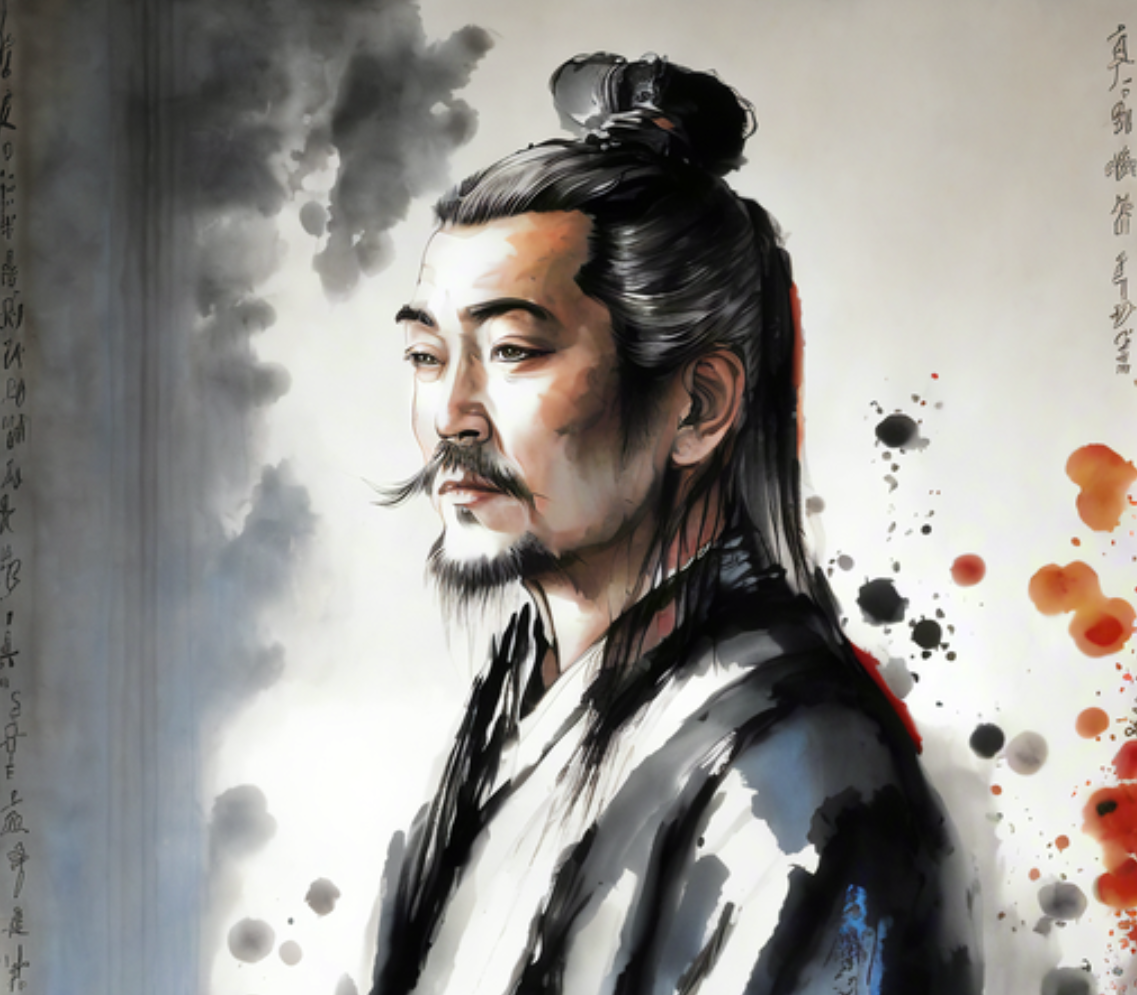
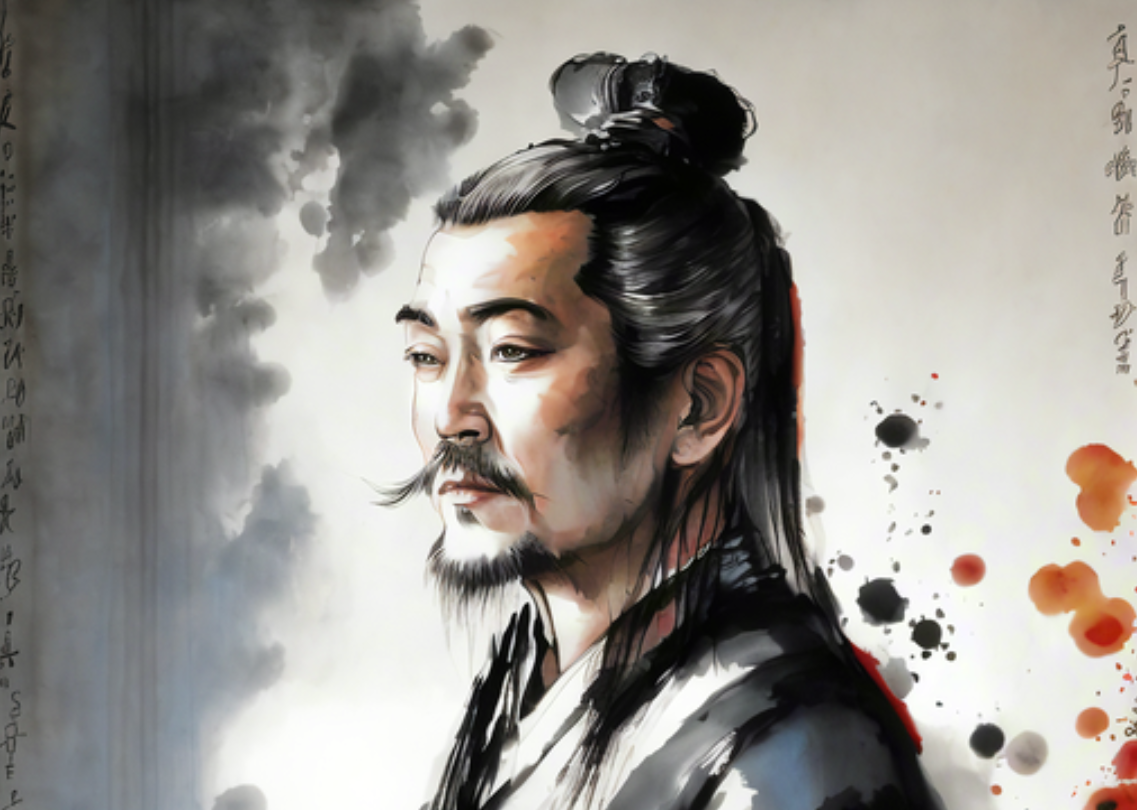
按照老师的意见修改了
1.首页加了背景图，背景图本来找ai扩图把左边扩一下好放网站名的，后来想起来设计模板网站就找了模板做，模板要VIP所以截图了有点糊，好在图片里的奶奶笑得很开心不影响美感（感谢奶奶让我找到这么合适的图嘎嘎嘎嘎嘎）。
2.精品课程多加了一行，仅仅是“紧凑一点”四个字就让我调了好久，可算是把什么margin， padding，上下左右都搞明白了。
3.睡觉！！！

diff --git a/index.html b/index.html
@@ -28,7 +28,7 @@
     <div id="nav">
          <div class="container-fluid">
             <div id="logo" class="pull-left">
-                <a href="#"><img src="logo (2).png" alt="Logo"></a>
+                <a href="#"><img src="logo2.png" alt="Logo"></a>
             </div>
 
             <nav id="nav-menu-container">
@@ -38,6 +38,9 @@
                     <li><a href="#process">社团介绍</a></li>  
                     <li><a href="#products">课程介绍</a></li>   
                     <li><a href="#faqs">常见问题</a></li>
+                    <li><a href="#settled in">社团入驻</a></li>
+                    <li><a href="#reservation">课程预约</a></li>
+
                 </ul>
             </nav>
          </div>
@@ -50,19 +53,18 @@
 
     <!-- Header Start-->
    <div id="header">
-       <div class="container">
-           <div class="">
-               <div class="">
+       <div class="container bg-image">
+           <div class="row align-items-center">
+               <div class="col-md-7">
                    <div class="header-content">
                        <h2>学 社 通</h2>
-                       <p></p>
-                       <h4>————连接<span> 学校</span> 与 <span>社区</span></h4>
-                       <p></p>
-                       <h3><i class="far fa-arrow-alt-circle-right"></i>学校社团提供课程
-                       <i class="far fa-arrow-alt-circle-right"></i>专为社区教育服务
-                       <i class="far fa-arrow-alt-circle-right"></i>线上线下课程联动</h3>
-                       <p></p>
-                   
+                       <h3>————连接<span> 学校 </span>与<span> 社区 </span></h3>
+                       <ul class="fa-ul">
+                           <li><span class="fa-li"><i class="far fa-arrow-alt-circle-right"></i></span>学校社团提供课程</li>
+                           <li><span class="fa-li"><i class="far fa-arrow-alt-circle-right"></i></span>专为社区教育服务</li>
+                           <li><span class="fa-li"><i class="far fa-arrow-alt-circle-right"></i></span>线上线下课程联动</li>
+
+                       </ul>
                        <a href="#" class="btn">立即预约</a>
                    </div>
                </div>
@@ -202,7 +204,6 @@
         <div class="container">
             <div class="section-header">
                 <h2>精品课程</h2>
-                <p></p>
             </div>
 
             <div class="row align-items-center">
@@ -212,7 +213,6 @@
                             <img src="c1.png" alt="">
                         </div>
                         <div class="product-content">
-                            <h2></h2>
                             <h3>历史百家鸣</h3>
                             <a href="" class="btn">立即预约</a>
                         </div>
@@ -224,7 +224,6 @@
                             <img src="c2.png" alt="">
                         </div>
                         <div class="product-content">
-                            <h2></h2>
                             <h3>跟我学Java</h3>
                             <a href="" class="btn">立即预约</a>
                         </div>
@@ -236,7 +235,6 @@
                             <img src="c3.png" alt="">
                         </div>
                         <div class="product-content">
-                            <h2></h2>
                             <h3>童心探索营</h3>
                             <a href="" class="btn">立即预约</a>
                         </div>
@@ -248,12 +246,60 @@
                             <img src="c4.png" alt="">
                         </div>
                         <div class="product-content">
-                            <h2></h2>
                             <h3>智慧养生堂</h3>
                             <a href="" class="btn">立即预约</a>
                         </div>
                     </div>
                 </div>
+
+                <div class="col-md-3">
+                    <div class="product-single">
+                        <div class="product-img">
+                            <img src="c51.jpg" alt="">
+                        </div>
+                        <div class="product-content">
+                            <h3>晚霞画韵</h3>
+                            <a href="" class="btn">立即预约</a>
+                        </div>
+                    </div>
+                </div>
+
+                <div class="col-md-3">
+                    <div class="product-single">
+                        <div class="product-img">
+                            <img src="c6.jpg" alt="">
+                        </div>
+                        <div class="product-content">
+                            <h3>玩转科学</h3>
+                            <a href="" class="btn">立即预约</a>
+                        </div>
+                    </div>
+                </div>
+
+                <div class="col-md-3">
+                    <div class="product-single">
+                        <div class="product-img">
+                            <img src="c7.jpg" alt="">
+                        </div>
+                        <div class="product-content">
+                            <h3>话语力量</h3>
+                            <a href="" class="btn">立即预约</a>
+                        </div>
+                    </div>
+                </div>
+
+                <div class="col-md-3">
+                    <div class="product-single">
+                        <div class="product-img">
+                            <img src="c8.jpg" alt="">
+                        </div>
+                        <div class="product-content">
+                            <h3>乐享烘焙</h3>
+                            <a href="" class="btn">立即预约</a>
+                        </div>
+                    </div>
+                </div>
+
             </div>
         </div>
     </div>
@@ -350,7 +396,7 @@
                     <p>&copy; Copyright <a href="#">xueshetong</a>. All Rights Reserved.</p>    
                 </div>
                 <div class="col-md-6">
-                    <p>Template by <a href="#">CC</a></p>
+                    <p><a href="#"></a></p>
                 </diV>
             </div>
         </div>

diff --git a/style.css b/style.css
@@ -41,7 +41,7 @@
 #nav #logo img{
     padding:0;
     margin:0;
-    max-height:70px;
+    max-height:90px;
 }
 
 #nav-menu-container{
@@ -199,14 +199,19 @@ body.mobile-nav-active #mobile-nav-toggle {
 #header
 {
     position: relative;
-    padding:90px 0;
-    margin-top: 90px;
+    padding:9px 0;
+    margin-top: 120px;
     background-position: center;
     background-repeat: no-repeat;
     background-size: cover;
     background-attachment: fixed;
     background-color:#f7f7f7;
 }
+
+#header .bg-image{
+    background-image: url("bgs.png");
+}
+
 #header .header-content{
     width:100%;
     text-align:center;
@@ -216,25 +221,28 @@ body.mobile-nav-active #mobile-nav-toggle {
     font-weight:700;
     color:#73c8e4;
     margin-bottom: 20px;
+    text-align: left;
 }
 
 
-#header .header-content h4{
+#header .header-content h3{
     font-size:25px;
     font-weight:700;
     color:#666666;
     margin-bottom: 20px;
-    text-align: right;
+    text-align: center;
 }
-#header .header-content h4 span{
+#header .header-content h3 span{
     color:#73c8e4;
 }
 #header .header-content ul{
     margin-left: 32px;
-    margin-bottom: 30px;
+    margin-bottom: 0px;
 }
 #header .header-content ul li{
-    font-size: 22px;   
+    font-size: 22px; 
+    text-align: left; 
+    letter-spacing: 2px; 
 }
 #header .header-content ul li i{
     color:#73c8e4;
@@ -248,8 +256,9 @@ body.mobile-nav-active #mobile-nav-toggle {
     margin:30px;
     padding:7px 20px;
     font-size:22px;
-    color: #73c8e4;
+    color: #fff;
     border:2px solid #73c8e4;
+    background:#73c8e4;
 }
 #header .header-content .btn:hover{
     background:#73c8e4;
@@ -407,10 +416,11 @@ body.mobile-nav-active #mobile-nav-toggle {
     position:relative;
     padding:90px 0;
 }
+
 #products .product-single{
     position:relative;
     width:100%;
-    padding:30px;
+    padding:10px;
     text-align:center;
     background: #f7f7f7;
     border-radius: 5px;
@@ -418,8 +428,9 @@ body.mobile-nav-active #mobile-nav-toggle {
 #products .product-single .product-img{
     position: relative;
     width:100%;
-    margin-bottom:30px;
+    margin-bottom:0px;
     overflow:hidden;
+    
 }
 #products .product-img img{
     max-width:100%;
@@ -435,12 +446,12 @@ body.mobile-nav-active #mobile-nav-toggle {
 }
 #products .product-content h3{
     color: #73c8e4;
-    font-size: 25px;
+    font-size: 20px;
     font-weight: 700;
 }
 #products .product-content .btn{
     color: #73c8e4;
-    font-size: 18px;
+    font-size: 15px;
     border:2px solid #73c8e4;
 }
 #products .product-content .btn:hover{
@@ -574,7 +585,7 @@ body.mobile-nav-active #mobile-nav-toggle {
     background: #222222;
 }
 #footer .col-md-6:first-child p{
-    text-align: left;
+    text-align: center;
 }
 #footer .col-md-6:last-child p{
     text-align: right;

diff --git a/main.js b/main.js
@@ -45,7 +45,7 @@
 
     //Testimonial Carousel
     $('#testimonials-carousel').owlCarousel({
-        dots:true;
+        dots:true,
         loop:true,
         autoplay:true,
         responsive:{
